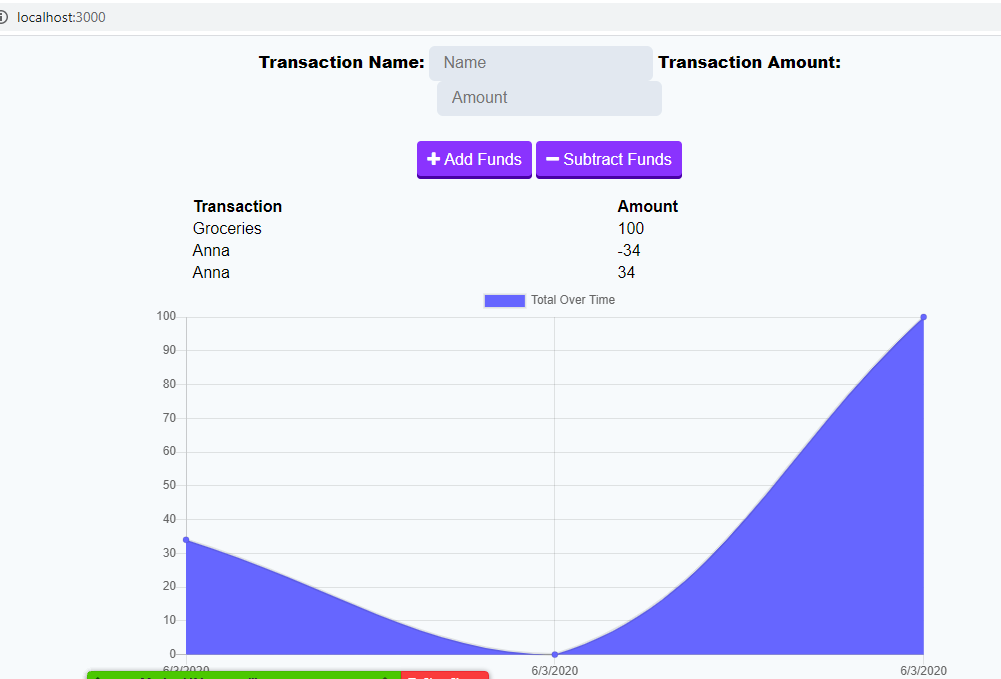
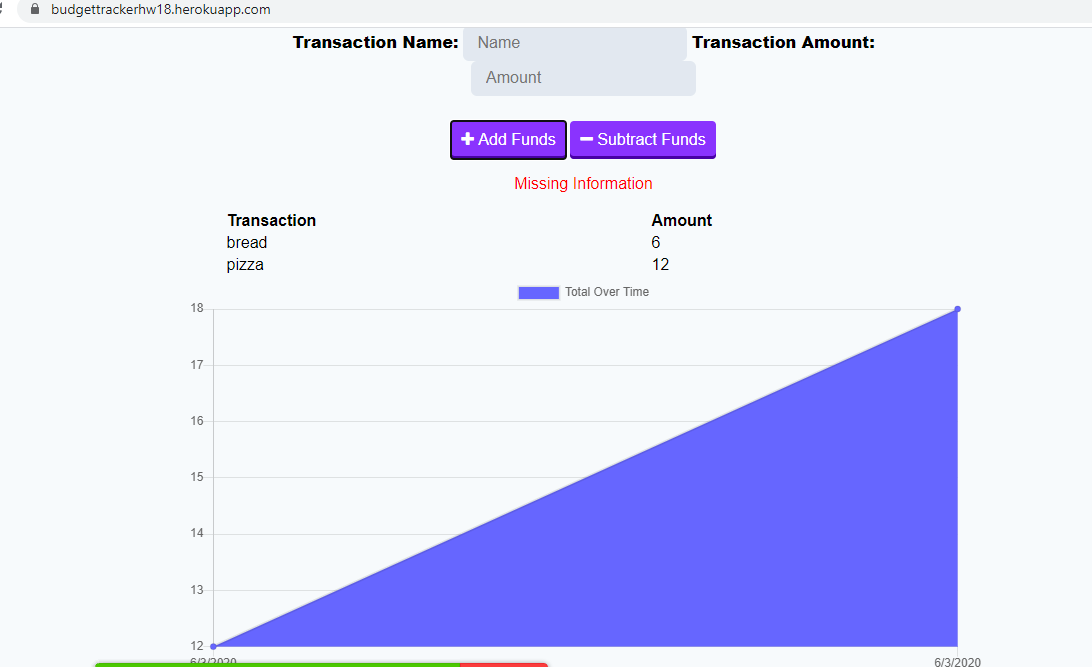
add heroku

diff --git a/README.md b/README.md
@@ -4,7 +4,7 @@
 
 # Github 
  - https://github.com/Anna250481/Progressive-Budget
- - 
+ - https://budgettrackerhw18.herokuapp.com/
 
 
 # Screenshot
